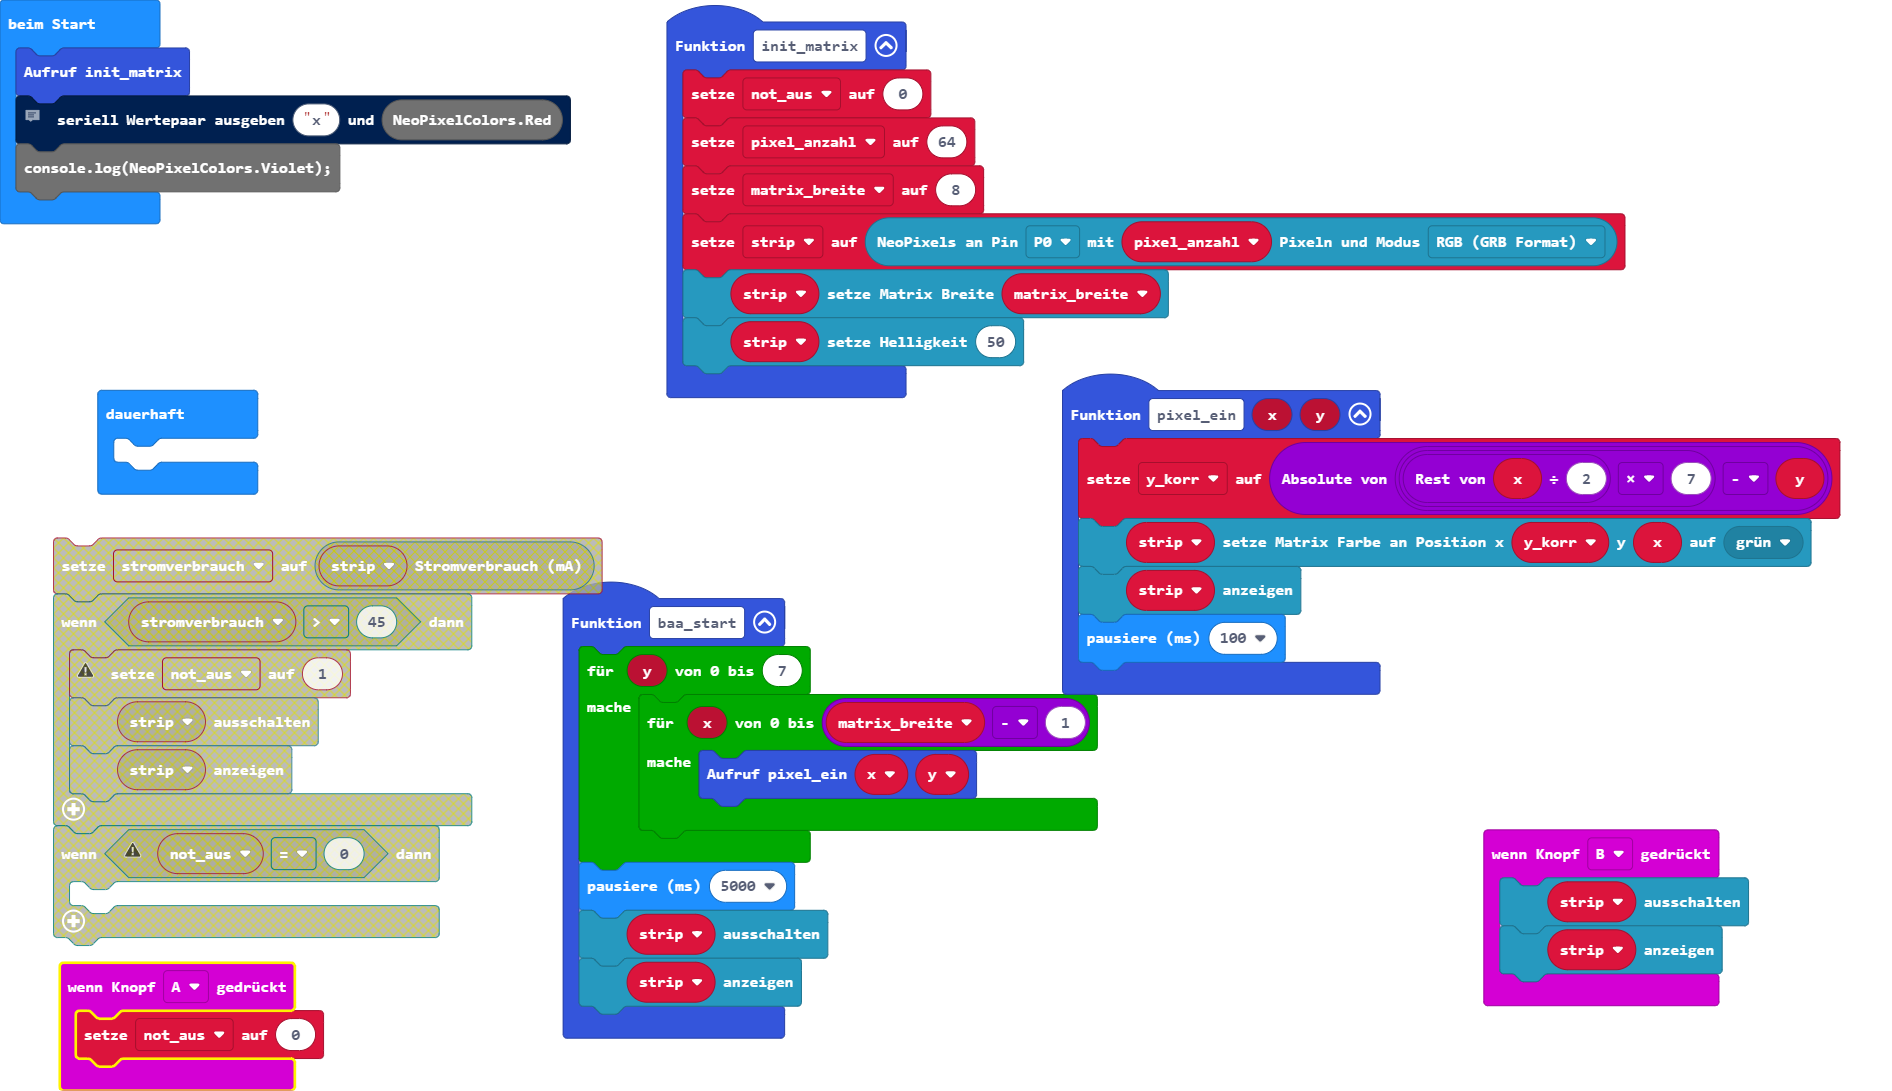
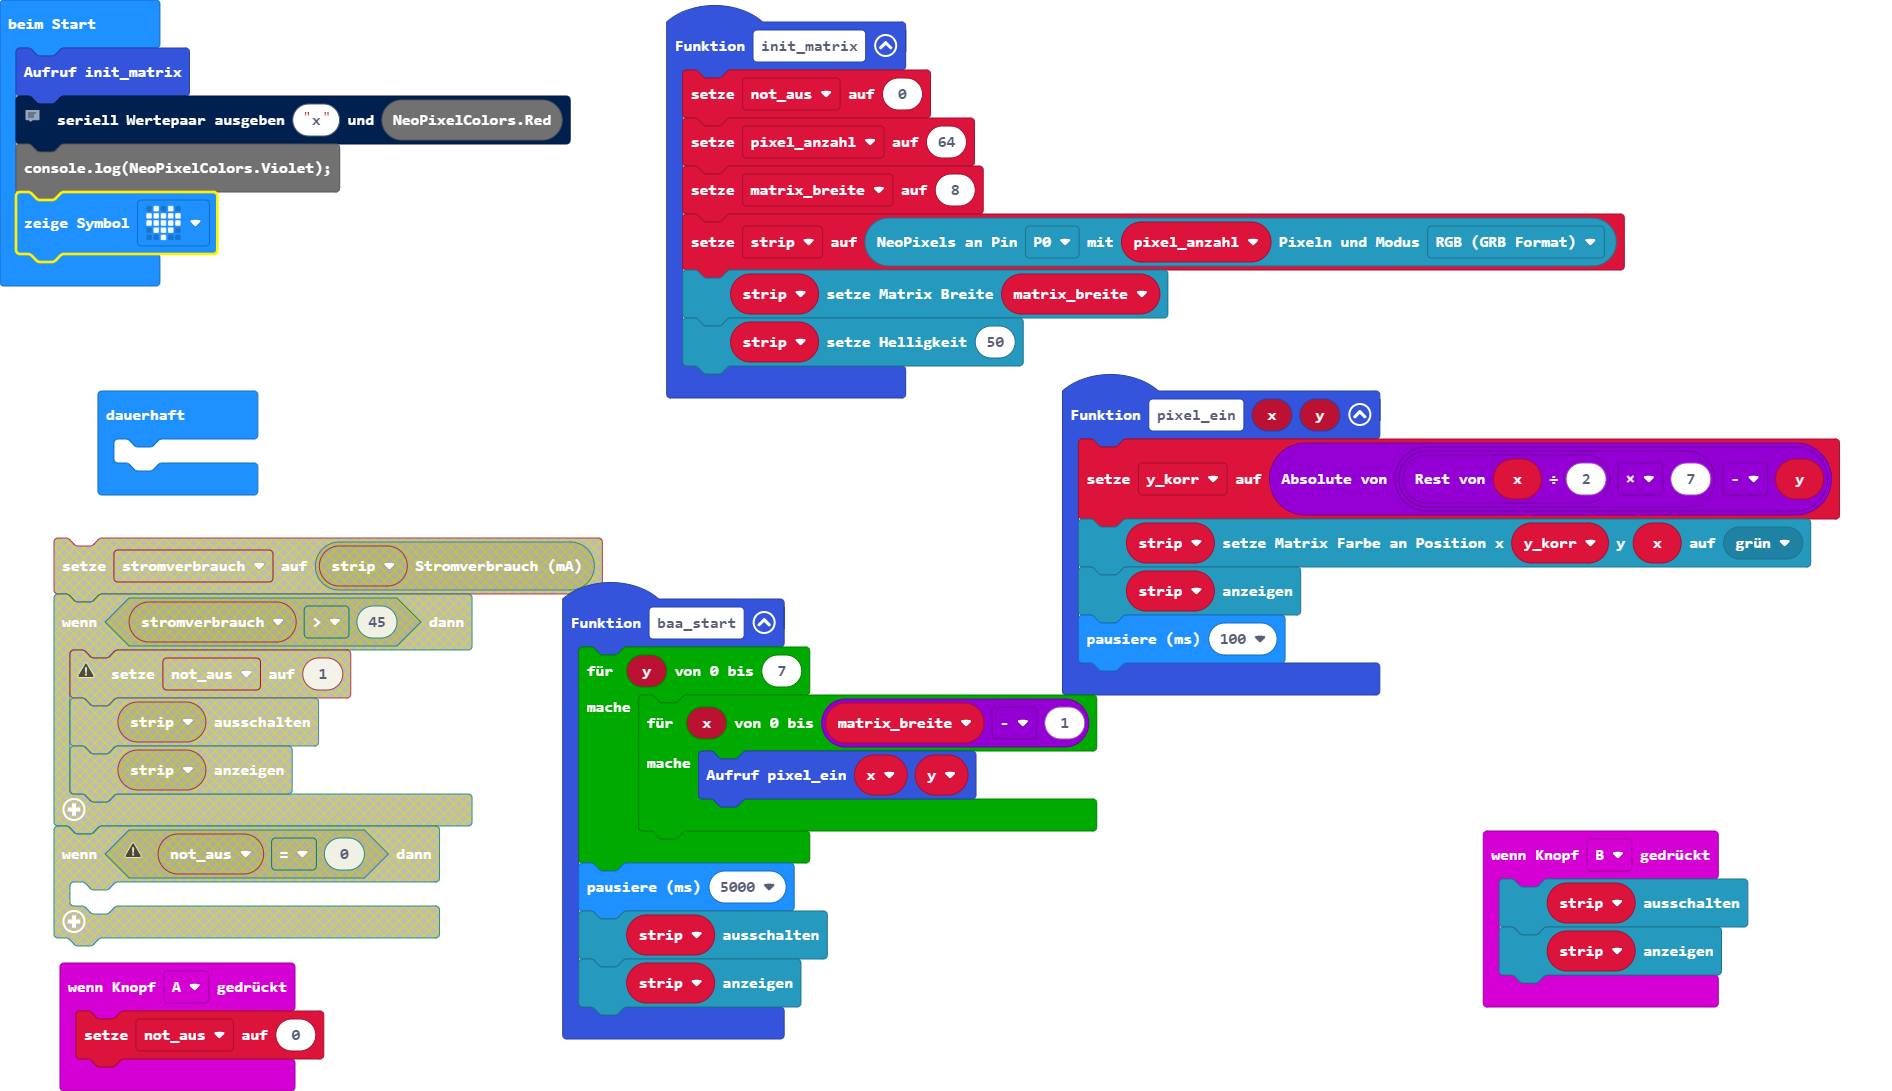
Aktualisiere pxt.json, main.blocks, main.ts, test.ts

diff --git a/test.ts b/test.ts
@@ -1,1 +1,44 @@
 // Hier kann man Tests durchführen; diese Datei wird nicht kompiliert, wenn dieses Paket als Erweiterung verwendet wird.
+
+/**
+ * Functions are mapped to blocks using various macros
+ * in comments starting with %. The most important macro
+ * is "block", and it specifies that a block should be
+ * generated for an **exported** function.
+ */
+
+//% color="#AA278D" weight=100
+namespace libBaa {
+    //% block
+    export function helloWorld() {
+        baa_start()
+    }
+
+    // note that Caml casing yields lower case
+    // block text with spaces
+
+    //% block
+    export function camlCaseTwo() {
+        basic.showNumber(112)
+    }
+    
+    //% block
+    export function ZeigeName() {
+        basic.showString("Bachinger Alois")
+    }
+
+    //% block
+    export function ZeigeDrei() {
+       strip.showColor(neopixel.colors(NeoPixelColors.Blue))
+    }
+
+    // Hier wird die Hardware initialisiert......
+
+    // let baa: neopixel.Strip = null;
+    // baa = neopixel.create(DigitalPin.P0, 8, NeoPixelMode.RGB);
+    // baa.showColor(neopixel.colors(NeoPixelColors.Black));
+
+
+
+}
+

diff --git a/main.ts b/main.ts
@@ -38,6 +38,7 @@ init_matrix()
 // serial.writeValue("x", stromverbrauch)
 serial.writeValue("x", NeoPixelColors.Red)
 console.log(NeoPixelColors.Violet);
+basic.showIcon(IconNames.Heart)
 basic.forever(function () {
 	
 })
